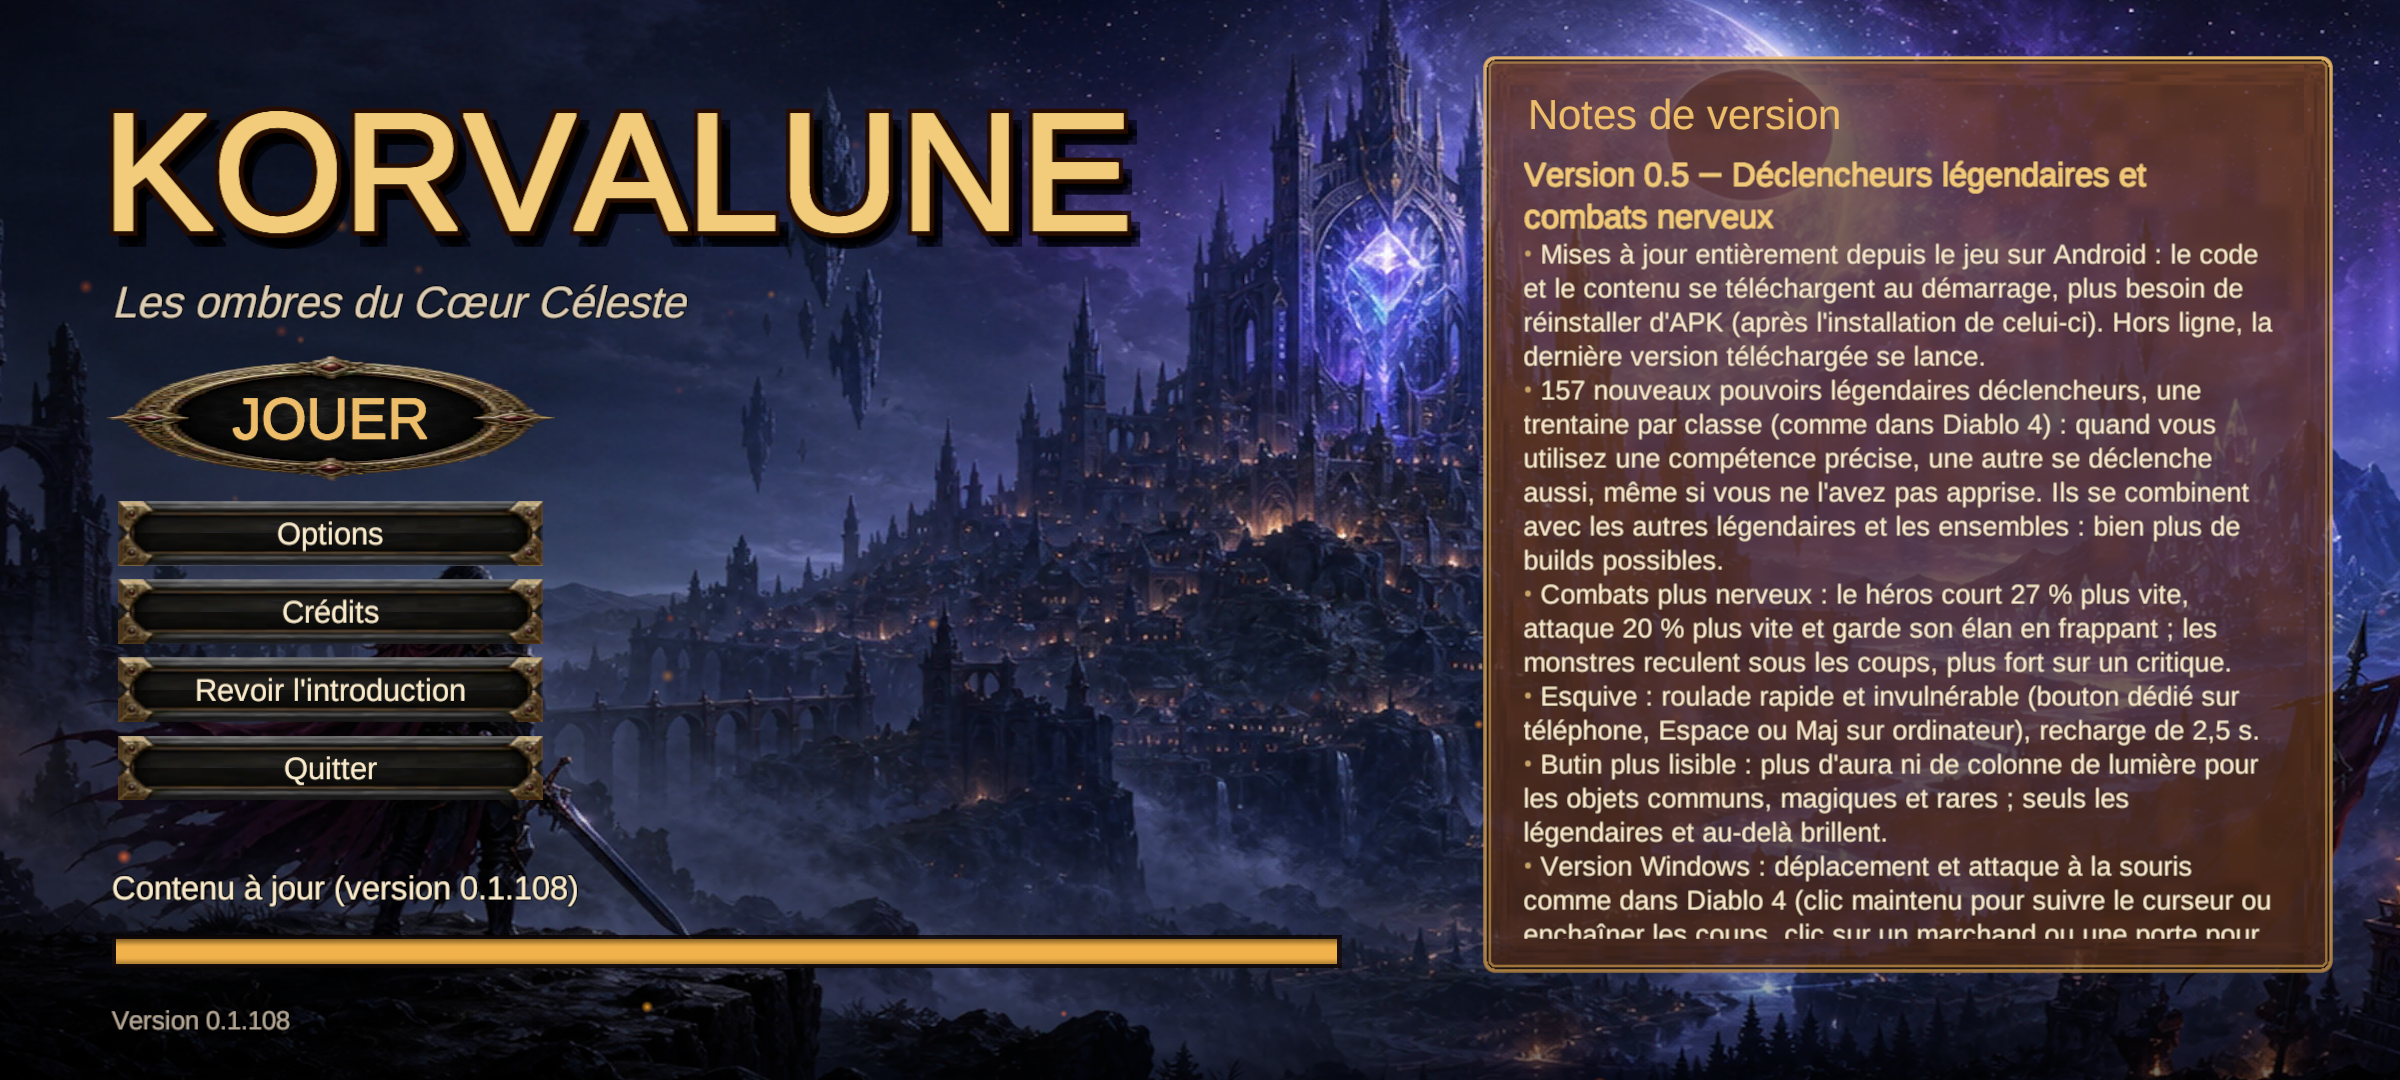
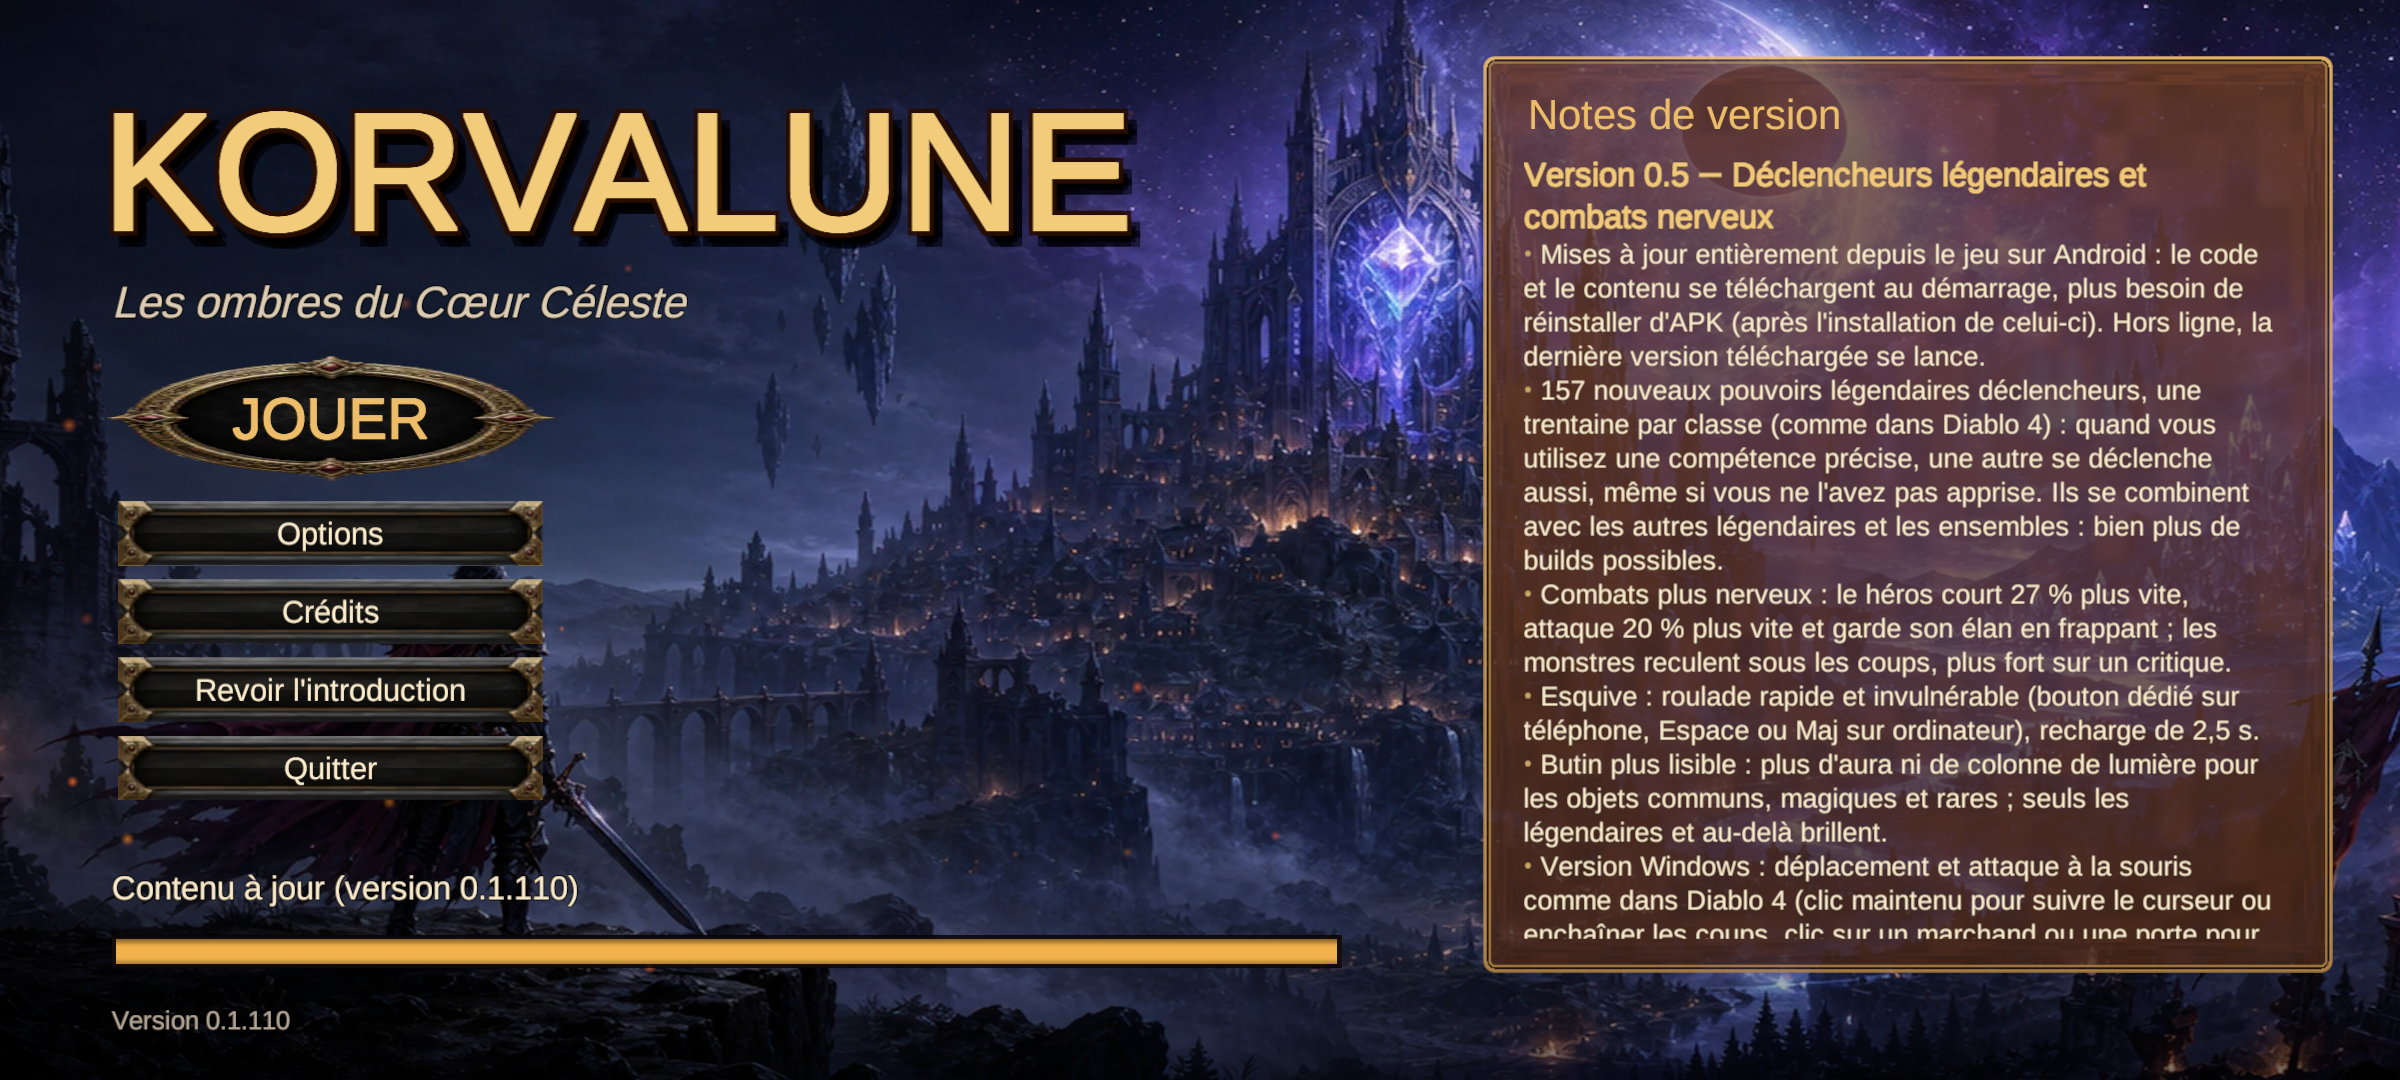
Android : APK construit et testé dans l'émulateur [skip ci]

diff --git a/ci-out/android/build.md b/ci-out/android/build.md
@@ -3,7 +3,7 @@
 - Scènes : Korvalune_Lanceur, Korvalune_Selection, CharacterCreator, Korvalune_Vallee, Korvalune_Crypte, Korvalune_Terriers, Korvalune_Eclipse, Korvalune_Breche, Korvalune_Foret, Korvalune_Desert, Korvalune_Pics, Korvalune_Cote, Korvalune_Marais, Korvalune_Toundra, Korvalune_Volcan, Korvalune_Canyon, Korvalune_Abime
 - Signature : clé Korvalune (mises à jour sans désinstaller)
 - Icône : Assets/Korvalune/Resources/UI/Icone.png
-- Contenu téléchargeable : 100 paquets, 722 Mo (release contenu-108)
+- Contenu téléchargeable : 100 paquets, 722 Mo (release contenu-110)
     - scenes : 146.4 Mo
     - art_catalog_models : 58.3 Mo
     - art_catalog_skins : 34.6 Mo
@@ -18,8 +18,8 @@
     - art_heroes_tharion_f : 16.7 Mo
 - HybridCLR : génération en 2.2 min
 - Code mis à jour depuis le jeu : Korvalune.Runtime 670 Ko + 7 métadonnées (9.0 Mo), APK minimal 0
-- Résultat : **Succeeded** en 27.1 min, 0 erreur(s), 12 avertissement(s)
-- APK : 129.1 Mo, version 0.1.108
+- Résultat : **Succeeded** en 27.0 min, 0 erreur(s), 12 avertissement(s)
+- APK : 129.1 Mo, version 0.1.110
 
 ## Contenu empaqueté : 35 Mo
 - Texture2D : 23.0 Mo (295)
@@ -69,46 +69,46 @@
 
 ## Mémoire pendant la construction (dernières mesures)
 ```
-17:23:08 ram 6452/15983 swap 30/16383  4728708 Unity 447500 Unity.ILPP.Runn 
-17:23:13 ram 6478/15983 swap 30/16383  4728708 Unity 447844 Unity.ILPP.Runn 
-17:23:18 ram 6572/15983 swap 30/16383  4728708 Unity 447996 Unity.ILPP.Runn 
-17:23:23 ram 6495/15983 swap 30/16383  4728708 Unity 449132 Unity.ILPP.Runn 
-17:23:28 ram 6520/15983 swap 30/16383  4728708 Unity 449844 Unity.ILPP.Runn 
-17:23:33 ram 6559/15983 swap 30/16383  4728712 Unity 450628 Unity.ILPP.Runn 
-17:23:38 ram 7120/15983 swap 30/16383  4728712 Unity 2546872 ld.lld 
-17:23:44 ram 7062/15983 swap 37/16383  4728584 Unity 1438500 ld.lld 
-17:23:50 ram 6665/15983 swap 43/16383  4728584 Unity 2738316 ld.lld 
-17:23:56 ram 5828/15983 swap 479/16383  4494800 Unity 480792 Unity.ILPP.Runn 
-17:24:02 ram 5864/15983 swap 689/16383  4389432 Unity 387556 Unity.ILPP.Runn 
-17:24:07 ram 5991/15983 swap 689/16383  4389432 Unity 387676 Unity.ILPP.Runn 
-17:24:12 ram 6033/15983 swap 689/16383  4389452 Unity 396048 java 
-17:24:17 ram 6155/15983 swap 689/16383  4389452 Unity 511456 java 
-17:24:22 ram 6407/15983 swap 689/16383  4389456 Unity 765080 java 
-17:24:27 ram 6425/15983 swap 689/16383  4389572 Unity 797860 java 
-17:24:32 ram 6361/15983 swap 689/16383  4389536 Unity 716152 java 
-17:24:37 ram 6350/15983 swap 1008/16383  4063560 Unity 1019512 java 
-17:24:42 ram 5932/15983 swap 1511/16383  3574944 Unity 1134980 java 
-17:24:47 ram 5891/15983 swap 1909/16383  3168176 Unity 1339416 java 
-17:24:52 ram 5786/15983 swap 2023/16383  3052440 Unity 1430028 java 
-17:24:57 ram 5760/15983 swap 2023/16383  3052496 Unity 1470572 java 
-17:25:02 ram 5761/15983 swap 2023/16383  3052560 Unity 1473800 java 
-17:25:07 ram 5784/15983 swap 2023/16383  3052652 Unity 1505340 java 
-17:25:12 ram 5864/15983 swap 2139/16383  2933624 Unity 1676324 java 
-17:25:17 ram 5784/15983 swap 2435/16383  2632180 Unity 1696404 java 
-17:25:22 ram 5097/15983 swap 2940/16383  2118964 Unity 1730728 java 
-17:25:27 ram 4928/15983 swap 3142/16383  1913876 Unity 1609664 java 
-17:25:33 ram 3728/15983 swap 4171/16383  1620232 java 1010920 Unity 
-17:25:38 ram 3471/15983 swap 4634/16383  1774644 java 721296 Unity 
-17:25:43 ram 3536/15983 swap 4640/16383  1845476 java 721460 Unity 
-17:25:48 ram 3449/15983 swap 4641/16383  1842096 java 733912 Unity 
-17:25:53 ram 3645/15983 swap 4493/16383  1842040 java 926716 Unity 
-17:25:58 ram 3778/15983 swap 4443/16383  1842040 java 992588 Unity 
-17:26:03 ram 3997/15983 swap 4441/16383  1842044 java 1196028 Unity 
-17:26:08 ram 4214/15983 swap 4446/16383  1842044 java 1413700 Unity 
-17:26:13 ram 4481/15983 swap 4438/16383  1842044 java 1591776 Unity 
-17:26:18 ram 2547/15983 swap 3930/16383  1560496 Unity 130560 provjobd1074951 
-17:26:23 ram 1072/15983 swap 219/16383  130560 provjobd1074951 91208 Runner.Worker 
-17:26:28 ram 1128/15983 swap 219/16383  127444 provjobd1074951 117804 Unity.Licensing 
+18:34:03 ram 6366/15983 swap 223/16383  4664368 Unity 437688 Unity.ILPP.Runn 
+18:34:08 ram 6318/15983 swap 223/16383  4664380 Unity 437832 Unity.ILPP.Runn 
+18:34:13 ram 6259/15983 swap 223/16383  4664380 Unity 438016 Unity.ILPP.Runn 
+18:34:18 ram 6282/15983 swap 223/16383  4664380 Unity 438504 Unity.ILPP.Runn 
+18:34:23 ram 6298/15983 swap 223/16383  4664380 Unity 439408 Unity.ILPP.Runn 
+18:34:28 ram 6358/15983 swap 223/16383  4664380 Unity 439464 Unity.ILPP.Runn 
+18:34:33 ram 6277/15983 swap 223/16383  4664380 Unity 439720 Unity.ILPP.Runn 
+18:34:38 ram 6267/15983 swap 223/16383  4664380 Unity 440912 Unity.ILPP.Runn 
+18:34:43 ram 6297/15983 swap 223/16383  4664384 Unity 441712 Unity.ILPP.Runn 
+18:34:48 ram 6530/15983 swap 584/16383  4406964 Unity 1922020 ld.lld 
+18:34:53 ram 5087/15983 swap 1311/16383  3697012 Unity 401040 Unity.ILPP.Runn 
+18:34:58 ram 4654/15983 swap 2102/16383  2882796 Unity 1098304 ld.lld 
+18:35:03 ram 4427/15983 swap 2517/16383  2823480 ld.lld 2479464 Unity 
+18:35:08 ram 3720/15983 swap 2517/16383  2479028 Unity 399260 Unity.ILPP.Runn 
+18:35:14 ram 3832/15983 swap 2517/16383  2480872 Unity 400444 Unity.ILPP.Runn 
+18:35:19 ram 4088/15983 swap 2517/16383  2480892 Unity 400468 Unity.ILPP.Runn 
+18:35:24 ram 4080/15983 swap 2517/16383  2480872 Unity 401700 Unity.ILPP.Runn 
+18:35:29 ram 4074/15983 swap 2517/16383  2480888 Unity 402764 Unity.ILPP.Runn 
+18:35:34 ram 4208/15983 swap 2517/16383  2480888 Unity 495644 java 
+18:35:39 ram 4413/15983 swap 2517/16383  2480900 Unity 703192 java 
+18:35:44 ram 4470/15983 swap 2517/16383  2480880 Unity 714048 java 
+18:35:49 ram 4465/15983 swap 2517/16383  2480896 Unity 730088 java 
+18:35:54 ram 4693/15983 swap 2517/16383  2480836 Unity 987844 java 
+18:35:59 ram 4960/15983 swap 2517/16383  2480812 Unity 1233424 java 
+18:36:04 ram 5280/15983 swap 2517/16383  2480816 Unity 1314092 java 
+18:36:09 ram 5247/15983 swap 2517/16383  2480816 Unity 1395804 java 
+18:36:14 ram 5209/15983 swap 2517/16383  2480820 Unity 1429280 java 
+18:36:19 ram 5186/15983 swap 2517/16383  2480824 Unity 1437068 java 
+18:36:24 ram 5326/15983 swap 2517/16383  2480828 Unity 1607640 java 
+18:36:29 ram 5593/15983 swap 2517/16383  2480844 Unity 1869464 java 
+18:36:34 ram 5811/15983 swap 2517/16383  2480856 Unity 1877456 java 
+18:36:39 ram 5592/15983 swap 2517/16383  2480576 Unity 1879276 java 
+18:36:44 ram 5619/15983 swap 2517/16383  2480520 Unity 1880712 java 
+18:36:49 ram 5738/15983 swap 2517/16383  2479568 Unity 1983824 java 
+18:36:54 ram 5874/15983 swap 2517/16383  2479292 Unity 2085180 java 
+18:37:00 ram 6027/15983 swap 2517/16383  2478972 Unity 2225124 java 
+18:37:05 ram 5962/15983 swap 2514/16383  2470984 Unity 2209736 java 
+18:37:10 ram 3375/15983 swap 2336/16383  2416140 Unity 127560 provjobd7046538 
+18:37:15 ram 1185/15983 swap 191/16383  130060 provjobd7046538 115304 Runner.Worker 
+18:37:20 ram 1102/15983 swap 191/16383  126172 provjobd7046538 115308 Runner.Worker 
 ```
 ## Noyau (OOM)
 ```

diff --git a/ci-out/android/test.md b/ci-out/android/test.md
@@ -28,14 +28,6 @@
     [Korvalune][test] chargement 90 %
     [Korvalune][test] chargement 90 %
     [Korvalune][test] chargement 90 %
-    [Korvalune][test] chargement 90 %
-    [Korvalune][test] chargement 90 %
-    [Korvalune][test] chargement 90 %
-    [Korvalune][test] chargement 90 %
-    [Korvalune][test] chargement 90 %
-    [Korvalune][test] chargement 90 %
-    [Korvalune][test] chargement 90 %
-    [Korvalune][test] chargement 90 %
 - ⚠ Partie automatique inachevée (voir partie.txt)
 - ✅ Aucun plantage dans le journal
 - Erreurs Unity dans le journal : 0
